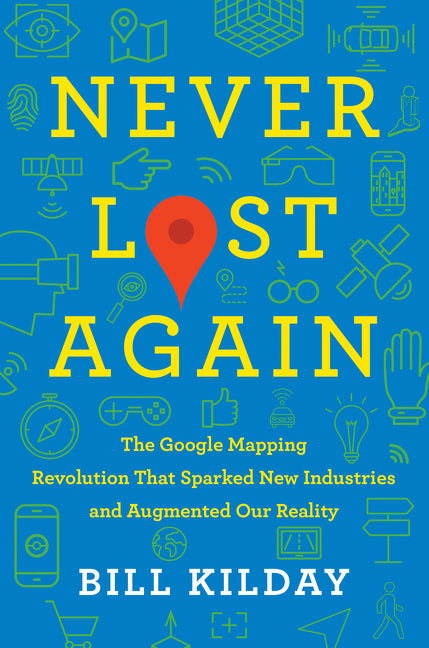
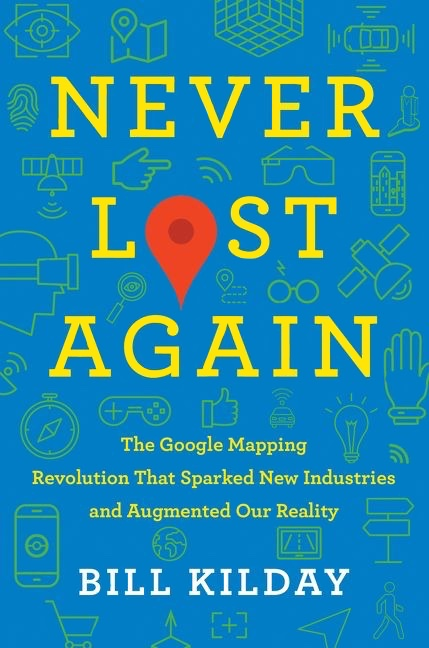
Add an entry for "Never Lost Again"

diff --git a/reviews/2022/never-lost-again.md b/reviews/2022/never-lost-again.md
@@ -1,0 +1,26 @@
+---
+book:
+  author: Bill Kilday
+  narrator: Robert Shapiro
+  cover:
+    name: never-lost-again.jpg
+    size: 58176
+    tint_color: "#167dab"
+  title: Never Lost Again
+  publication_year: 2018
+review:
+  date_read: 2022-03-30
+  format: audiobook
+  rating: 4
+---
+
+Fun, interesting book about the history of Google Maps, from somebody who worked at the startup Keyhole, then got acquired by Google, and eventually went on to work at Niantic.
+Bill Kilday worked in marketing rather than the engineering side, so although it touches on the technical aspects, it's not an in-depth technical book.
+
+This isn't a book by a visionary – indeed, the author is quite upfront about how often they didn't grok the potential of what was being built.
+In an industry full of boasting and ego, this book is somewhat restrained.
+
+I trust the broad strokes, all of which I've heard in bits before (but it's nice to have a single narrative), but I'm dubious about some of the details.
+For example, the description of the iPhone introduction is flat-out wrong in key aspects, e.g. the original iPhone didn't have the blue "you are here" dot.
+
+Overall I enjoyed it and the narration is fine; it's a compelling story and remarkable to reflect on how relatively recent it is.
